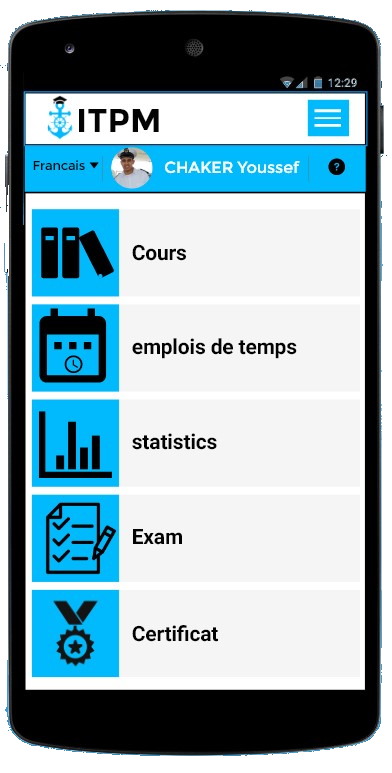
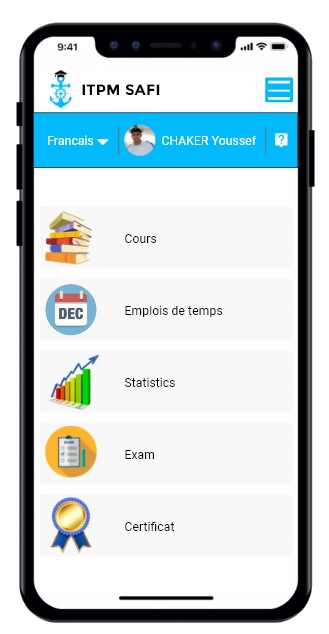
edit title and page profil

diff --git a/siteweb ITPM/Varsity/profil.html b/siteweb ITPM/Varsity/profil.html
@@ -100,7 +100,7 @@
           </button>
           <!-- LOGO -->              
           <!-- TEXT BASED LOGO -->
-          <a class="navbar-brand" href="index.html"><i><img src="assets/img/logoitpm.png" width="61" height="auto"></i><span>IPTM</span></a>
+          <a class="navbar-brand" href="index.html"><i><img src="assets/img/logoitpm.png" width="61" height="auto"></i><span>ITPM</span></a>
           <!-- IMG BASED LOGO  -->
           <!-- <a class="navbar-brand" href="index.html"><img src="assets/img/logo.png" alt="logo"></a> -->
         </div>
@@ -177,20 +177,39 @@
  </section>
  <!-- end title -->
  <!-- start profil content -->
-<section id="mu-profil">
-     <h3 style="color: white"> Inscrivez-vous</h3>
-        <input type="text" name="username" placeholder="Numéro de carte national" required style="width:260px"><br/>
-        <input type="password" name="password" placeholder="Mot de passe" required style="width: 260px"><br/>
-        <input type="checkbox"><p style="color: white;margin:-39px 0px 0px 20px">Rester connecté</p><br/>
-        <input type="submit" value="Conexion" style="background-color: #01BAFD; border-color: #01BAFD "><br/>
-</section>
-<section id="app">
-   <h3 style="text-align: center"><b>Download</b></h3>   
-       <a href="https://apps.apple.com/us/genre/ios/id36" target="blank"><img src="assets/img/appStore.jpg" width="144" height="37"></a>
-       <a href="https://play.google.com/store/apps" target="blank"><img src="assets/img/appPlay.jpg" width="113" height="37"></a>
-</section>
-<section>
-  <img src="assets/img/mobile.png" width="300" height="auto" style="padding-left:76px">
+ <section id="mu-error">
+  <div class="container">
+    <div class="row">
+     <div class="col-md-12">
+        <div class="mu-error-area">
+          <!-- profil content -->
+          <div class="profil-content">
+            <div class="col-incri-profil">
+              <h3 style="color: white"> Inscrivez-vous</h3>
+              <input type="text" name="username" placeholder="Numéro de carte national" ><br/>
+              <input type="password" name="password" placeholder="Mot de passe"><br/>
+              <label>
+                <input type="checkbox">Rester connecté
+              </label>
+              <button type="button">Conexion</button>
+            </div>
+            <div class="col-app">
+              <!-- application downland -->
+              <div class="app-profil">
+              <h3 style="text-align: center"><b>Download</b></h3>   
+                <a href="https://apps.apple.com/us/genre/ios/id36" target="blank"><img src="assets/img/appStore.jpg" width="144" height="37"></a>
+                <a href="https://play.google.com/store/apps" target="blank"><img src="assets/img/appPlay.jpg" width="113" height="37"></a>
+              </div>
+              <!-- exemple  app -->
+              <div class="im-profil">
+                <img src="assets/img/mobile.png" width="300" height="auto" style="padding-left:76px">
+              </div>
+            </div>
+          </div>
+        </div>
+      </div>
+    </div>
+  </div>
 </section>
  <!-- End profil  -->
  

diff --git a/siteweb ITPM/Varsity/assets/css/style.css b/siteweb ITPM/Varsity/assets/css/style.css
@@ -2411,40 +2411,53 @@ img {
 
 /*========PROFIL
 ===============*/
-#mu-profil{
-   float: right;
-   margin-left: 160px;
-   margin-right: 40px;
-   border: 1px solid black;
-   height: 310px;
-   width: 300px;
-   padding-left: 20px;
-   padding-right: 20px;
-   margin-bottom: 50px;
-   background-color: #333333;
- }
-#mu-profil input {
-  padding: 14px
-  margin:4px;
-  margin-bottom: 20px;
-   display: inline;
-  float: left;
+.profil-content {
+  display: flex;
+  justify-content: space-between;
+  flex-wrap: wrap;
 }
-/*===============LOGIN
-=============*/
 
-#app {
-  float: right;
-  margin-right: 34px;
-  height: 310px;
-  width: 333px;
-  padding-right: 20px;
-  padding-left: 40px;
+.col-incri-profil {
+  background-color: #333333;
+  width: 298px;
+  height: 334px;
+}
 
+.col-incri-profil input {
+  margin: 16px 0;
+  width: 260px;
+  height: 38px;
+  border-radius: 5px;
+}
+
+.col-incri-profil label {
+  justify-content: start;
+  display: inline-flex;
+  width: 100px;
+}
+
+.col-incri-profil input [type=checkbox] {
+  display: inline;
+  justify-content: flex-start;
+  margin: 0;
 
 }
-#body {
- background-image: url(assets/img/bgg.jpg);
+
+.col-incri-profil button {
+  width: 83px;
+  height: 27px;
+  font-size: 16px;
+  font-weight: normal;
+  border-radius: 5px;
+  color: white;
+  background-color: #01bafd;
+}
+
+.col-app {
+  width: 30%;
+  padding: 0 10px;
+  flex-wrap: nowrap;
+
 }
 /*========CLUB
 ==============*/

diff --git a/siteweb ITPM/Varsity/Club.html b/siteweb ITPM/Varsity/Club.html
@@ -97,7 +97,7 @@
           </button>
           <!-- LOGO -->              
           <!-- TEXT BASED LOGO -->
-          <a class="navbar-brand" href="index.html"><i><img src="assets/img/logoitpm.png" width="61" height="auto"></i><span>IPTM</span></a>
+          <a class="navbar-brand" href="index.html"><i><img src="assets/img/logoitpm.png" width="61" height="auto"></i><span>ITPM</span></a>
           <!-- IMG BASED LOGO  -->
           <!-- <a class="navbar-brand" href="index.html"><img src="assets/img/logo.png" alt="logo"></a> -->
         </div>

diff --git a/siteweb ITPM/Varsity/contact.html b/siteweb ITPM/Varsity/contact.html
@@ -98,7 +98,7 @@
           </button>
           <!-- LOGO -->              
           <!-- TEXT BASED LOGO -->
-          <a class="navbar-brand" href="index.html"><i><img src="assets/img/logoitpm.png" width="61" height="auto"></i><span>IPTM</span></a>
+          <a class="navbar-brand" href="index.html"><i><img src="assets/img/logoitpm.png" width="61" height="auto"></i><span>ITPM</span></a>
           <!-- IMG BASED LOGO  -->
           <!-- <a class="navbar-brand" href="index.html"><img src="assets/img/logo.png" alt="logo"></a> -->
         </div>

diff --git a/siteweb ITPM/Varsity/course-detail.html b/siteweb ITPM/Varsity/course-detail.html
@@ -96,7 +96,7 @@
           </button>
           <!-- LOGO -->              
           <!-- TEXT BASED LOGO -->
-          <a class="navbar-brand" href="index.html"><i><img src="assets/img/logoitpm.png" width="61" height="auto"></i><span>IPTM</span></a>
+          <a class="navbar-brand" href="index.html"><i><img src="assets/img/logoitpm.png" width="61" height="auto"></i><span>ITPM</span></a>
           <!-- IMG BASED LOGO  -->
           <!-- <a class="navbar-brand" href="index.html"><img src="assets/img/logo.png" alt="logo"></a> -->
         </div>

diff --git a/siteweb ITPM/Varsity/gallery.html b/siteweb ITPM/Varsity/gallery.html
@@ -97,7 +97,7 @@
           </button>
           <!-- LOGO -->              
           <!-- TEXT BASED LOGO -->
-          <a class="navbar-brand" href="index.html"><i><img src="assets/img/logoitpm.png" width="61" height="auto"></i><span>IPTM</span></a>
+          <a class="navbar-brand" href="index.html"><i><img src="assets/img/logoitpm.png" width="61" height="auto"></i><span>ITPM</span></a>
           <!-- IMG BASED LOGO  -->
           <!-- <a class="navbar-brand" href="index.html"><img src="assets/img/logo.png" alt="logo"></a> -->
         </div>

diff --git a/siteweb ITPM/Varsity/index.html b/siteweb ITPM/Varsity/index.html
@@ -98,7 +98,7 @@
           </button>
           <!-- LOGO -->              
           <!-- TEXT BASED LOGO -->
-          <a class="navbar-brand" href="index.html"><i><img src="assets/img/logoitpm.png" width="61" height="auto"></i><span>IPTM</span></a>
+          <a class="navbar-brand" href="index.html"><i><img src="assets/img/logoitpm.png" width="61" height="auto"></i><span>ITPM</span></a>
           <!-- IMG BASED LOGO  -->
           <!-- <a class="navbar-brand" href="index.html"><img src="assets/img/logo.png" alt="logo"></a> -->
         </div>

diff --git a/siteweb ITPM/Varsity/course.html b/siteweb ITPM/Varsity/course.html
@@ -97,7 +97,7 @@
           </button>
           <!-- LOGO -->              
           <!-- TEXT BASED LOGO -->
-          <a class="navbar-brand" href="index.html"><i><img src="assets/img/logoitpm.png" width="61" height="auto"></i></i><span>IPTM</span></a>
+          <a class="navbar-brand" href="index.html"><i><img src="assets/img/logoitpm.png" width="61" height="auto"></i></i><span>ITPM</span></a>
           <!-- IMG BASED LOGO  -->
         </div>
         <div id="navbar" class="navbar-collapse collapse">
